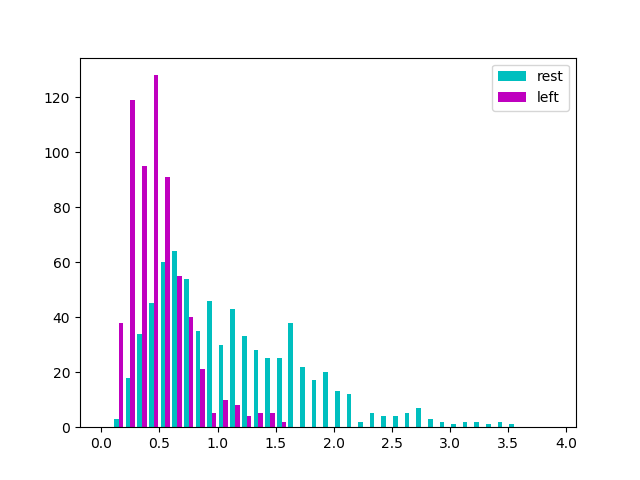
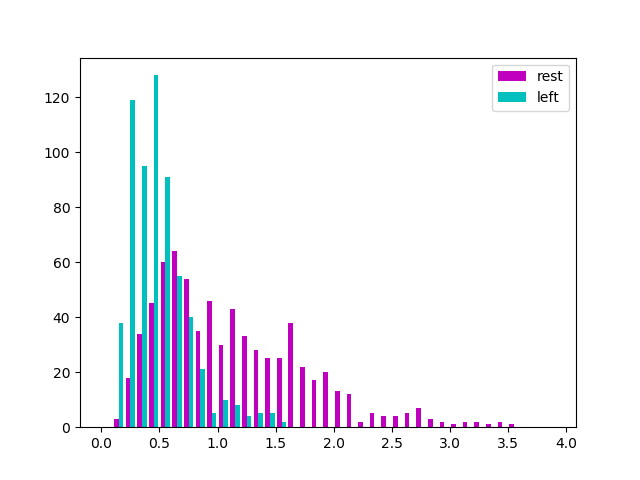
fixed colors in histogram, added code for visualizing predictions by thresholding

Changed region(s): [[0.1562, 0.1562, 0.75, 0.9062], [0.7812, 0.125, 0.8438, 0.2188]]

diff --git a/offline/visualization/OpenBCI_MI_analysis.py b/offline/visualization/OpenBCI_MI_analysis.py
@@ -117,8 +117,8 @@ else:
         else:
             rest_specgram.append(d)
 #resize the blocks so that they're the same length as either the minimum or maximum length block
-'''rest_specgram = resize_blocks(rest_specgram)
-left_specgram = resize_blocks(left_specgram)
+'''rest_specgram = resize_min(rest_specgram)
+left_specgram = resize_min(left_specgram)
 '''
 rest_specgram = resize_max(rest_specgram)
 left_specgram = resize_max(left_specgram)
@@ -126,8 +126,8 @@ left_specgram = resize_max(left_specgram)
 # plot average spectrogram of both classes
 plt.figure()
 rest_av = np.nanmean(np.array(rest_specgram), axis=0)
-plot_specgram(f, rest_av,channel_name + ' rest',shift, 1)
 left_av = np.nanmean(np.array(left_specgram), axis=0)
+plot_specgram(f, rest_av,channel_name + ' rest',shift, 1)
 plot_specgram(f, left_av,channel_name + ' left',shift, 2)
 
 # plot average mu trace over time
@@ -136,21 +136,42 @@ mu_indices = np.where(np.logical_and(f>=7, f<=12))
 plt.plot(np.mean(rest_av[mu_indices], axis=0))
 plt.plot(np.mean(left_av[mu_indices], axis=0))
 
+# get mu trace for each trial
+rest_mu = np.mean(rest_specgram[:,mu_indices[0],:], axis=1)
+left_mu = np.mean(left_specgram[:,mu_indices[0],:], axis=1)
+
 # plot mu trace for each trial over time
 plt.figure()
-for spec in rest_specgram:
-    plt.plot(np.mean(spec[mu_indices], axis=0), 'm')
-for spec in left_specgram:
-    plt.plot(np.mean(spec[mu_indices], axis=0), 'c')
+for spec in rest_mu:
+    plt.plot(spec, 'm')
+for spec in left_mu:
+    plt.plot(spec, 'c')
 
 # histogram of mu levels
-colors = ['c', 'm']
+colors = ['m', 'c']
 labels = ['rest', 'left']
-re_values = np.mean(rest_specgram[:,mu_indices[0],:], axis=1).flatten()
-l_values = np.mean(left_specgram[:,mu_indices[0],:], axis=1).flatten()
+rest_mu_vals = rest_mu[~np.isnan(rest_mu)].flatten()
+left_mu_vals = left_mu[~np.isnan(left_mu)].flatten()
 plt.figure()
-plt.hist([re_values, l_values], bins=[i*.1 for i in range(40)], color=colors, label=labels)
+plt.hist([rest_mu_vals, left_mu_vals], bins=[i*.1 for i in range(40)], color=colors, label=labels)
 plt.legend()
+
+threshold = 0.4
+percent_rest = len(np.where(rest_mu_vals < threshold)[0])/len(rest_mu_vals)
+percent_left = len(np.where(left_mu_vals < threshold)[0])/len(left_mu_vals)
+print(percent_rest)
+print(percent_left)
+
+plt.figure()
+i = 0
+for spec in np.where(rest_mu < threshold, 1, 0):
+    i += 1
+    plt.subplot(19, 1, i)
+    plt.plot(spec, 'm')
+for spec in np.where(left_mu < threshold, 1, 0):
+    i += 1
+    plt.subplot(19, 1, i)
+    plt.plot(spec, 'c')
 #plt.figure()
 #plt.plot(data)
 
